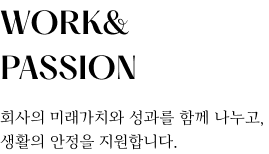
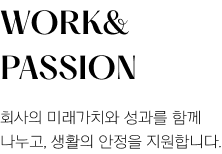
type B > main PC > careers 수정

diff --git a/type_B/css/type_B_mo.css b/type_B/css/type_B_mo.css
@@ -534,7 +534,7 @@ header .util a img {
 .sec3 .sec3_text {
   position: absolute;
   left:10px;
-  bottom:-178px;
+  bottom:-130px;
   display: block;
   z-index: 1;
 }
